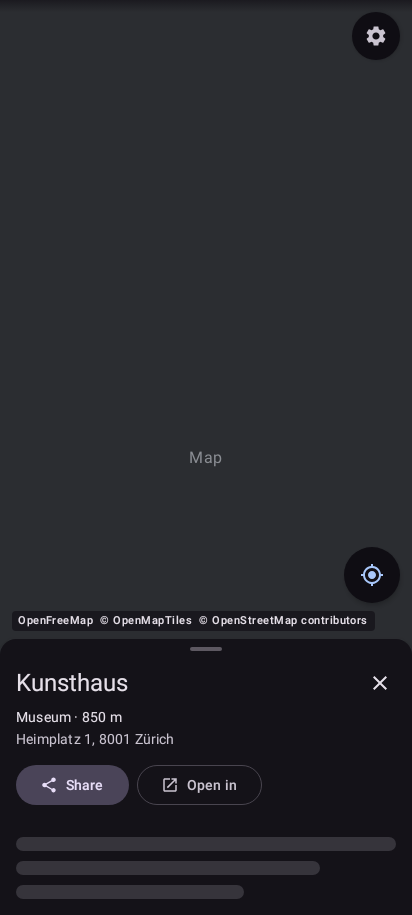
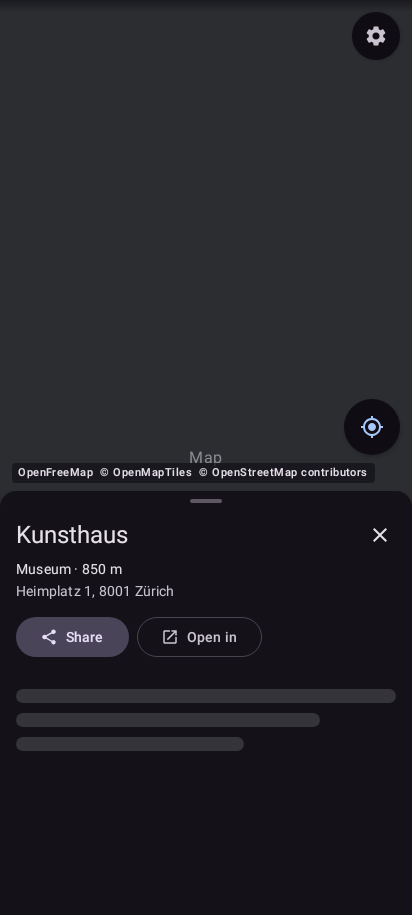
fix(place): a loading place page opens at the height of the page it becomes
While the card loads, the phone sheet's half and top stops are no longer
capped by the page's length, so the sheet does not jump up when the card
arrives and a picked place stays in the middle of the map left in view.
A short page shrinks once, when its card is in or has failed.

Changed region(s): [[0.0, 0.4284, 1.0, 1.0]]

diff --git a/androidApp/src/test/kotlin/to/pubky/maps/android/PlaceSheetLoadingTest.kt b/androidApp/src/test/kotlin/to/pubky/maps/android/PlaceSheetLoadingTest.kt
@@ -1,0 +1,156 @@
+package to.pubky.maps.android
+
+import androidx.compose.foundation.layout.Box
+import androidx.compose.foundation.layout.fillMaxSize
+import androidx.compose.runtime.getValue
+import androidx.compose.runtime.mutableStateOf
+import androidx.compose.runtime.setValue
+import androidx.compose.ui.Alignment
+import androidx.compose.ui.Modifier
+import androidx.compose.ui.platform.testTag
+import androidx.compose.ui.test.getUnclippedBoundsInRoot
+import androidx.compose.ui.test.junit4.createComposeRule
+import androidx.compose.ui.test.onNodeWithTag
+import androidx.compose.ui.unit.Dp
+import androidx.compose.ui.unit.dp
+import kotlinx.datetime.LocalDate
+import kotlinx.datetime.LocalDateTime
+import kotlinx.datetime.LocalTime
+import kotlinx.datetime.TimeZone
+import org.junit.Assert.assertEquals
+import org.junit.Assert.assertTrue
+import org.junit.Rule
+import org.junit.Test
+import org.junit.runner.RunWith
+import org.robolectric.RobolectricTestRunner
+import org.robolectric.annotation.Config
+import org.robolectric.annotation.GraphicsMode
+import to.pubky.maps.links.GeoPoint
+import to.pubky.maps.place.PlacePageActions
+import to.pubky.maps.place.PlacePageContext
+import to.pubky.maps.place.PlacePageState
+import to.pubky.maps.place.PlacePart
+import to.pubky.maps.place.PlacePost
+import to.pubky.maps.place.PlaceRef
+import to.pubky.maps.place.PlaceSheet
+import to.pubky.maps.place.PlaceSource
+import to.pubky.maps.place.SheetStop
+import to.pubky.maps.ui.PubkyMapsTheme
+
+/**
+ * At half a place page that is still loading its card takes half the room, as the page it becomes
+ * does, so the sheet does not jump up when the card arrives (and the map left in view, where a picked
+ * place is centred, stays the same). Once the card is in, or has failed, a short page is as tall as
+ * its content.
+ */
+@RunWith(RobolectricTestRunner::class)
+@GraphicsMode(GraphicsMode.Mode.NATIVE)
+@Config(qualifiers = "w412dp-h915dp-notnight-mdpi")
+class PlaceSheetLoadingTest {
+    @get:Rule
+    val compose = createComposeRule()
+
+    private val context =
+        PlacePageContext(
+            now = LocalDateTime(LocalDate.parse("2026-11-25"), LocalTime(12, 0)),
+            nowMillis = 1_795_608_000_000,
+            timeZone = TimeZone.UTC,
+            language = "en",
+            distance = null,
+        )
+
+    private val place = PlaceRef("https://www.openstreetmap.org/node/1", "Conditorei Schober", GeoPoint(47.37, 8.54), null, PlaceSource.Map)
+
+    /** Just opened: every part still loading. */
+    private val loading = PlacePageState(place = place)
+
+    /** Loaded with more than half a screen of posts. */
+    private val long =
+        PlacePageState(
+            place = place,
+            posts =
+                (1..30).map {
+                    PlacePost(
+                        "pubky://a/pub/social/v1/posts/$it",
+                        "a",
+                        "note",
+                        "Post number $it about the hot chocolate.",
+                        1_795_000_000_000,
+                        emptyList(),
+                    )
+                },
+            loading = emptySet(),
+        )
+
+    /** Loaded with nothing to show under the header. */
+    private val short = PlacePageState(place = place, loading = emptySet())
+
+    private val actions =
+        PlacePageActions(onClose = {}, onShare = null, openIn = emptyList(), onOpenIn = {}, onOpenLink = {}, onLoadMorePosts = {})
+
+    private var shown by mutableStateOf(loading)
+
+    private fun showAtHalf(page: PlacePageState) {
+        shown = page
+        compose.setContent {
+            PubkyMapsTheme {
+                Box(Modifier.fillMaxSize()) {
+                    PlaceSheet(
+                        shown,
+                        context,
+                        actions,
+                        SheetStop.Half,
+                        {},
+                        maxHeight = MaxHeight,
+                        modifier = Modifier.align(Alignment.BottomCenter).testTag("sheet"),
+                    )
+                }
+            }
+        }
+        compose.waitForIdle()
+    }
+
+    private fun sheetHeight(): Dp {
+        val bounds = compose.onNodeWithTag("sheet").getUnclippedBoundsInRoot()
+        return bounds.bottom - bounds.top
+    }
+
+    private fun assertNear(
+        expected: Dp,
+        actual: Dp,
+    ) = assertEquals(expected.value, actual.value, 1f)
+
+    @Test
+    fun aLoadingPageTakesHalfTheRoomAtHalf() {
+        showAtHalf(loading)
+        assertNear(MaxHeight / 2, sheetHeight())
+    }
+
+    @Test
+    fun theSheetKeepsItsHeightWhenTheLoadedPageArrives() {
+        showAtHalf(loading)
+        val before = sheetHeight()
+        shown = long
+        compose.waitForIdle()
+        assertNear(before, sheetHeight())
+    }
+
+    @Test
+    fun aShortPageShrinksToItsContentOnceItsCardIsIn() {
+        showAtHalf(loading)
+        shown = short
+        compose.waitForIdle()
+        val after = sheetHeight()
+        assertTrue("the short page's sheet is $after tall", after < MaxHeight / 2 - 50.dp)
+    }
+
+    @Test
+    fun aPageWhoseCardFailedIsAsTallAsItsContent() {
+        showAtHalf(loading.copy(loading = loading.loading - PlacePart.Card, failed = setOf(PlacePart.Card)))
+        assertTrue("the sheet is ${sheetHeight()} tall", sheetHeight() < MaxHeight / 2 - 50.dp)
+    }
+
+    private companion object {
+        val MaxHeight = 800.dp
+    }
+}

diff --git a/shared/src/commonMain/kotlin/to/pubky/maps/place/PlaceSheet.kt b/shared/src/commonMain/kotlin/to/pubky/maps/place/PlaceSheet.kt
@@ -79,9 +79,15 @@ fun PlaceSheet(
     val maxPx = with(density) { maxHeight.toPx() }
     val insetPx = with(density) { bottomInset.toPx() }
     val peekPx = ((if (headerPx > 0) headerPx + handlePx else with(density) { 180.dp.toPx() }) + insetPx).coerceAtMost(maxPx)
-    // The top stop is no taller than the page: a short page leaves no empty sheet under its end.
+    // The top stop is no taller than the page: a short page leaves no empty sheet under its end. While
+    // the card loads, the page's length is not known yet (a few grey lines stand for the photo, the
+    // description and the details), so the sheet takes its usual heights: half stays half of the room
+    // instead of growing by the card when it arrives, and the map left in view, where a picked place is
+    // centred, does not change under it. A short page shrinks once, when its card is in.
+    val cardLoading = page.card == null && PlacePart.Card in page.loading
     var contentPx by remember { mutableIntStateOf(0) }
-    val fullPx = if (contentPx > 0 && headerPx > 0) (headerPx + handlePx + contentPx).coerceAtMost(maxPx) else maxPx
+    val fullPx =
+        if (!cardLoading && contentPx > 0 && headerPx > 0) (headerPx + handlePx + contentPx).coerceAtMost(maxPx) else maxPx
     val stops = SheetStops(peek = peekPx, half = (maxPx * 0.5f).coerceAtMost(fullPx), full = fullPx)
     // headerPx is the header's own height in both places, so moving it does not change the answer.
     val headerScrolls = headerPx > 0 && headerPx + handlePx > maxPx * 0.5f
